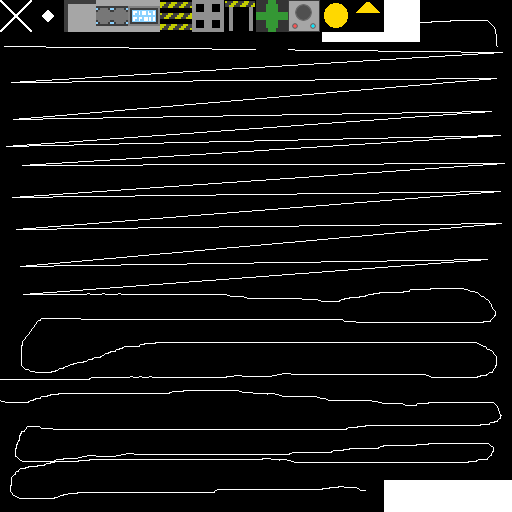
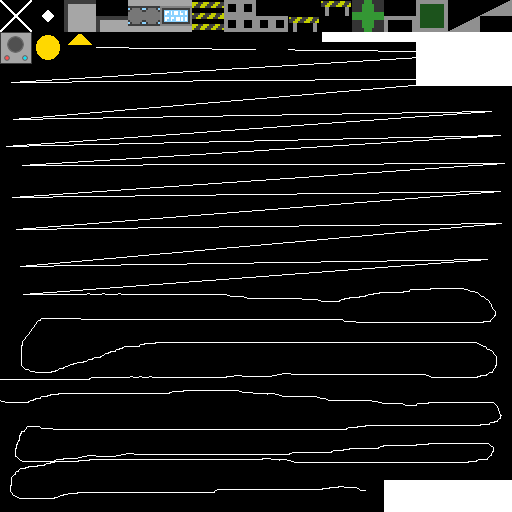
Adding several new tiles, and a "plant" item
Tiles added:
* Ramps!
* Half-height hull
* Half-height catwalk (with optional support structure)
* Top-half handrails (for the half-height tiles)
* Plant boxes
* Tables

Changed region(s): [[0.1875, 0.0, 1.0, 0.1875], [0.0, 0.0625, 0.1875, 0.125], [0.9375, 0.0, 1.0, 0.0312]]

diff --git a/src/BORK_of_DOOM/map_area.c b/src/BORK_of_DOOM/map_area.c
@@ -27,6 +27,8 @@ const char* bork_map_area_str(enum bork_area area) {
 
 static int tile_model_basic(struct bork_map*, struct pg_texture*,
                             struct bork_tile*, int, int, int);
+static int tile_model_ramp(struct bork_map*, struct pg_texture*,
+                            struct bork_tile*, int, int, int);
 static void bork_map_generate_model(struct bork_map* map,
                                     struct pg_texture* env_atlas);
 
@@ -89,6 +91,19 @@ struct bork_tile_detail BORK_TILE_DETAILS[] = {
         .face_inset = { -0.05, -0.05, -0.05, -0.05 },
         .tex_tile = { 7, 7, 7, 7 },
         .add_model = tile_model_basic },
+    [BORK_TILE_HANDRAIL_TOP] = { .name = "HANDRAIL TOP",
+        .tile_flags = BORK_TILE_HAS_ORIENTATION | BORK_TILE_FACE_ORIENTED,
+        .face_flags = { BORK_FACE_HAS_SURFACE | BORK_FACE_HAS_BACKFACE |
+                            BORK_FACE_SEETHRU_SURFACE | BORK_FACE_HALF_TOP,
+                        BORK_FACE_HAS_SURFACE | BORK_FACE_HAS_BACKFACE |
+                            BORK_FACE_SEETHRU_SURFACE | BORK_FACE_HALF_TOP,
+                        BORK_FACE_HAS_SURFACE | BORK_FACE_HAS_BACKFACE |
+                            BORK_FACE_SEETHRU_SURFACE | BORK_FACE_HALF_TOP,
+                        BORK_FACE_HAS_SURFACE | BORK_FACE_HAS_BACKFACE |
+                            BORK_FACE_SEETHRU_SURFACE | BORK_FACE_HALF_TOP },
+        .face_inset = { -0.05, -0.05, -0.05, -0.05 },
+        .tex_tile = { 7, 7, 7, 7 },
+        .add_model = tile_model_basic },
     [BORK_TILE_POWERBLOCK] = { .name = "POWER BLOCK",
         .face_flags = { 1, 1, 1, 1, 1, 1 },
         .tex_tile = {
@@ -96,6 +111,73 @@ struct bork_tile_detail BORK_TILE_DETAILS[] = {
             [PG_FRONT] = 8, [PG_BACK] = 8,
             [PG_TOP] = 9, [PG_DOWN] = 9 },
         .add_model = tile_model_basic },
+    [BORK_TILE_TABLE] = { .name = "TABLE",
+        .face_flags = {
+            BORK_FACE_HAS_SURFACE | BORK_FACE_HAS_BACKFACE | BORK_FACE_NO_SELF_OPPOSITE |
+                BORK_FACE_SEETHRU_SURFACE | BORK_FACE_HALF_BOTTOM,
+            BORK_FACE_HAS_SURFACE | BORK_FACE_HAS_BACKFACE | BORK_FACE_NO_SELF_OPPOSITE |
+                BORK_FACE_SEETHRU_SURFACE | BORK_FACE_HALF_BOTTOM,
+            BORK_FACE_HAS_SURFACE | BORK_FACE_HAS_BACKFACE | BORK_FACE_NO_SELF_OPPOSITE |
+                BORK_FACE_SEETHRU_SURFACE | BORK_FACE_HALF_BOTTOM,
+            BORK_FACE_HAS_SURFACE | BORK_FACE_HAS_BACKFACE | BORK_FACE_NO_SELF_OPPOSITE |
+                BORK_FACE_SEETHRU_SURFACE | BORK_FACE_HALF_BOTTOM,
+            [PG_TOP] = BORK_FACE_HAS_SURFACE | BORK_FACE_SEETHRU_SURFACE | BORK_FACE_HAS_BACKFACE,
+            [PG_BOTTOM] = 0 },
+        .face_inset = { [PG_TOP] = 0.5 },
+        .tex_tile = { 11, 11, 11, 11, 10, 10 },
+        .add_model = tile_model_basic },
+    [BORK_TILE_GARDEN] = { .name = "GARDEN",
+        .face_flags = {
+            BORK_FACE_HAS_SURFACE | BORK_FACE_HAS_BACKFACE | BORK_FACE_NO_SELF_OPPOSITE |
+                BORK_FACE_SEETHRU_SURFACE | BORK_FACE_HALF_BOTTOM,
+            BORK_FACE_HAS_SURFACE | BORK_FACE_HAS_BACKFACE | BORK_FACE_NO_SELF_OPPOSITE |
+                BORK_FACE_SEETHRU_SURFACE | BORK_FACE_HALF_BOTTOM,
+            BORK_FACE_HAS_SURFACE | BORK_FACE_HAS_BACKFACE | BORK_FACE_NO_SELF_OPPOSITE |
+                BORK_FACE_SEETHRU_SURFACE | BORK_FACE_HALF_BOTTOM,
+            BORK_FACE_HAS_SURFACE | BORK_FACE_HAS_BACKFACE | BORK_FACE_NO_SELF_OPPOSITE |
+                BORK_FACE_SEETHRU_SURFACE | BORK_FACE_HALF_BOTTOM,
+            [PG_TOP] = BORK_FACE_HAS_SURFACE,
+            [PG_BOTTOM] = BORK_FACE_HAS_SURFACE },
+        .face_inset = { 0, 0, 0, 0, [PG_TOP] = 0.5 },
+        .tex_tile = { 12, 12, 12, 12, 13, 20 },
+        .add_model = tile_model_basic },
+    [BORK_TILE_CATWALK_HALF] = { .name = "CATWALK HALF",
+        .tile_flags = BORK_TILE_HAS_ORIENTATION | BORK_TILE_FACE_ORIENTED,
+        .face_flags = {
+            BORK_FACE_HAS_SURFACE | BORK_FACE_HAS_BACKFACE | BORK_FACE_NO_SELF_OPPOSITE |
+                BORK_FACE_SEETHRU_SURFACE | BORK_FACE_HALF_BOTTOM,
+            BORK_FACE_HAS_SURFACE | BORK_FACE_HAS_BACKFACE | BORK_FACE_NO_SELF_OPPOSITE |
+                BORK_FACE_SEETHRU_SURFACE | BORK_FACE_HALF_BOTTOM,
+            BORK_FACE_HAS_SURFACE | BORK_FACE_HAS_BACKFACE | BORK_FACE_NO_SELF_OPPOSITE |
+                BORK_FACE_SEETHRU_SURFACE | BORK_FACE_HALF_BOTTOM,
+            BORK_FACE_HAS_SURFACE | BORK_FACE_HAS_BACKFACE | BORK_FACE_NO_SELF_OPPOSITE |
+                BORK_FACE_SEETHRU_SURFACE | BORK_FACE_HALF_BOTTOM,
+            [PG_TOP] = BORK_FACE_HAS_SURFACE | BORK_FACE_SEETHRU_SURFACE | BORK_FACE_HAS_BACKFACE,
+            [PG_BOTTOM] = 0, },
+        .face_inset = { 0, 0, 0, 0, [PG_TOP] = 0.5 },
+        .tex_tile = { 14, 14, 14, 14, [PG_TOP] = 6 },
+        .add_model = tile_model_basic },
+    [BORK_TILE_HULL_HALF] = { .name = "HULL HALF",
+        .face_flags = {
+            BORK_FACE_HAS_SURFACE | BORK_FACE_HAS_BACKFACE | BORK_FACE_NO_SELF_OPPOSITE |
+                BORK_FACE_SEETHRU_SURFACE | BORK_FACE_HALF_BOTTOM,
+            BORK_FACE_HAS_SURFACE | BORK_FACE_HAS_BACKFACE | BORK_FACE_NO_SELF_OPPOSITE |
+                BORK_FACE_SEETHRU_SURFACE | BORK_FACE_HALF_BOTTOM,
+            BORK_FACE_HAS_SURFACE | BORK_FACE_HAS_BACKFACE | BORK_FACE_NO_SELF_OPPOSITE |
+                BORK_FACE_SEETHRU_SURFACE | BORK_FACE_HALF_BOTTOM,
+            BORK_FACE_HAS_SURFACE | BORK_FACE_HAS_BACKFACE | BORK_FACE_NO_SELF_OPPOSITE |
+                BORK_FACE_SEETHRU_SURFACE | BORK_FACE_HALF_BOTTOM,
+            [PG_TOP] = BORK_FACE_HAS_SURFACE | BORK_FACE_SEETHRU_SURFACE,
+            [PG_BOTTOM] = BORK_FACE_HAS_SURFACE, },
+        .face_inset = { 0, 0, 0, 0, [PG_TOP] = 0.5 },
+        .tex_tile = { 15, 15, 15, 15, [PG_TOP] = 3 },
+        .add_model = tile_model_basic },
+    [BORK_TILE_RAMP_BOTTOM] = { .name = "RAMP BOTTOM",
+        .tile_flags = BORK_TILE_HAS_ORIENTATION,
+        .add_model = tile_model_ramp },
+    [BORK_TILE_RAMP_TOP] = { .name = "RAMP TOP",
+        .tile_flags = BORK_TILE_HAS_ORIENTATION,
+        .add_model = tile_model_ramp },
     [BORK_TILE_EDITOR_DOOR] = { .name = "DOOR",
         .tile_flags = BORK_TILE_HAS_ORIENTATION,
     },
@@ -190,7 +272,7 @@ void bork_map_draw(struct bork_map* map, struct bork_game_core* core)
     pg_shader_sprite_mode(shader, PG_SPRITE_CYLINDRICAL);
     pg_shader_sprite_transform(shader, (vec2){ 1, 1 }, (vec2){ 0, 0 });
     pg_shader_sprite_texture(shader, &core->env_atlas);
-    pg_shader_sprite_tex_frame(shader, 16);
+    pg_shader_sprite_tex_frame(shader, 160);
     pg_model_begin(&core->enemy_model, shader);
     int current_type = 0;
     struct bork_map_light_fixture* lfix;
@@ -341,10 +423,9 @@ static int tile_face_basic(struct bork_map* map, struct pg_texture* env_atlas,
     if(opp_flags & BORK_FACE_HAS_SURFACE && !(opp_flags & BORK_FACE_SEETHRU_SURFACE)
     && !(face_flags & BORK_FACE_FORCE_SURFACE) && !(face_flags & BORK_FACE_FLUSH_SURFACE)) {
         return 0;
-    } else if(face_flags & BORK_FACE_NO_SELF_OPPOSITE
-            && opp_flags & BORK_FACE_NO_SELF_OPPOSITE) {
+    } else if(face_flags & BORK_FACE_NO_SELF_OPPOSITE && opp_tile->type == tile->type) {
         return 0;
-    } else if((tile_flags & BORK_TILE_FACE_ORIENTED) && !(tile->orientation & (1 << dir))) {
+    } else if((tile_flags & BORK_TILE_FACE_ORIENTED) && dir < 4 && !(tile->orientation & (1 << dir))) {
         return 0;
     }
     struct pg_model* model = &map->model;
@@ -367,6 +448,9 @@ static int tile_face_basic(struct bork_map* map, struct pg_texture* env_atlas,
             if(face_flags & BORK_FACE_HALF_BOTTOM && new_vert.pos[2] == 0.5) {
                 new_vert.pos[2] = 0.0f;
                 new_vert.uv[1] += (16.0f / 512.0f);
+            } else if(face_flags & BORK_FACE_HALF_TOP && new_vert.pos[2] == -0.5) {
+                new_vert.pos[2] = 0.0f;
+                new_vert.uv[1] -= (16.0f / 512.0f);
             }
             vec3_add(new_vert.pos, new_vert.pos, (vec3){ 0.5, 0.5, 0.5 });
             vec3_add(new_vert.pos, new_vert.pos, (vec3){ x, y, z });
@@ -385,6 +469,9 @@ static int tile_face_basic(struct bork_map* map, struct pg_texture* env_atlas,
             if(face_flags & BORK_FACE_HALF_BOTTOM && new_vert.pos[2] == 0.5) {
                 new_vert.pos[2] = 0.0f;
                 new_vert.uv[1] += (16.0f / 512.0f);
+            } else if(face_flags & BORK_FACE_HALF_TOP && new_vert.pos[2] == -0.5) {
+                new_vert.pos[2] = 0.0f;
+                new_vert.uv[1] -= (16.0f / 512.0f);
             }
             vec3_add(new_vert.pos, new_vert.pos, (vec3){ 0.5, 0.5, 0.5 });
             vec3_add(new_vert.pos, new_vert.pos, (vec3){ x, y, z });
@@ -408,6 +495,54 @@ static int tile_model_basic(struct bork_map* map, struct pg_texture* env_atlas,
         tri_count += tile_face_basic(map, env_atlas, tile, x, y, z, s);
     }
     return tri_count;
+}
+
+static int tile_model_ramp(struct bork_map* map, struct pg_texture* env_atlas,
+                           struct bork_tile* tile, int x, int y, int z)
+{
+    struct pg_model* model = &map->model;
+    struct pg_vertex_full new_vert = { .components =
+        PG_MODEL_COMPONENT_POSITION | PG_MODEL_COMPONENT_UV };
+    vec2 tex_frame[2];
+    pg_texture_get_frame(env_atlas, 6, tex_frame[0], tex_frame[1]);
+    unsigned vert_idx = model->v_count;
+    int i;
+    for(i = 0; i < 8; ++i) {
+        int vi = i % 4;
+        vec3_dup(new_vert.pos, vert_pos[5][vi]);
+        vec2_set(new_vert.uv, tex_frame[(vi < 2)][0], tex_frame[(vi % 2)][1]);
+        if(tile->type == BORK_TILE_RAMP_TOP) new_vert.pos[2] += 0.5;
+        vec3_add(new_vert.pos, new_vert.pos, (vec3){ 0.5, 0.5, 0.5 });
+        vec3_add(new_vert.pos, new_vert.pos, (vec3){ x, y, z });
+        vec3_scale(new_vert.pos, new_vert.pos, 2);
+        pg_model_add_vertex(model, &new_vert);
+    }
+    if(tile->orientation & (1 << PG_FRONT)) {
+        model->pos.data[vert_idx + 2].v[2] += 1.0f;
+        model->pos.data[vert_idx + 3].v[2] += 1.0f;
+        model->pos.data[vert_idx + 6].v[2] += 1.0f;
+        model->pos.data[vert_idx + 7].v[2] += 1.0f;
+    } else if(tile->orientation & (1 << PG_BACK)) {
+        model->pos.data[vert_idx + 0].v[2] += 1.0f;
+        model->pos.data[vert_idx + 1].v[2] += 1.0f;
+        model->pos.data[vert_idx + 4].v[2] += 1.0f;
+        model->pos.data[vert_idx + 5].v[2] += 1.0f;
+    } else if(tile->orientation & (1 << PG_LEFT)) {
+        model->pos.data[vert_idx + 1].v[2] += 1.0f;
+        model->pos.data[vert_idx + 3].v[2] += 1.0f;
+        model->pos.data[vert_idx + 5].v[2] += 1.0f;
+        model->pos.data[vert_idx + 7].v[2] += 1.0f;
+    } else if(tile->orientation & (1 << PG_RIGHT)) {
+        model->pos.data[vert_idx + 0].v[2] += 1.0f;
+        model->pos.data[vert_idx + 2].v[2] += 1.0f;
+        model->pos.data[vert_idx + 4].v[2] += 1.0f;
+        model->pos.data[vert_idx + 6].v[2] += 1.0f;
+    }
+    pg_model_add_triangle(model, vert_idx + 0, vert_idx + 1, vert_idx + 2);
+    pg_model_add_triangle(model, vert_idx + 2, vert_idx + 1, vert_idx + 3);
+    pg_model_add_triangle(model, vert_idx + 5, vert_idx + 4, vert_idx + 6);
+    pg_model_add_triangle(model, vert_idx + 5, vert_idx + 6, vert_idx + 7);
+    return 4;
 }
 
 int bork_map_load_editor_map(struct bork_map* map, char* filename)

diff --git a/src/BORK_of_DOOM/entity.h b/src/BORK_of_DOOM/entity.h
@@ -28,6 +28,7 @@ struct bork_entity {
         BORK_ITEM_BULLETS,
         BORK_ITEM_SCRAPMETAL,
         BORK_ITEM_MACHINEGUN,
+        BORK_ITEM_PLANT1,
         BORK_ENTITY_TYPES,
     } type;
 };
@@ -77,6 +78,11 @@ static const struct bork_entity_profile {
         .size = { 0.5, 0.5, 0.5 },
         .sprite_tx = { 1, 1, 0, 0 },
         .front_frame = 1 },
+    [BORK_ITEM_PLANT1] = { .name = "PLANT",
+        .base_flags = BORK_ENTFLAG_ITEM | BORK_ENTFLAG_STACKS,
+        .size = { 0.5, 0.5, 0.5 },
+        .sprite_tx = { 1, 1, 0, 0 },
+        .front_frame = 3 },
     [BORK_ITEM_SCRAPMETAL] = { .name = "SCRAP METAL",
         .base_flags = BORK_ENTFLAG_ITEM,
         .size = { 0.5, 0.5, 0.5 },
@@ -90,3 +96,4 @@ struct bork_entity* bork_entity_get(bork_entity_t ent);
 void bork_entity_init(struct bork_entity* ent, enum bork_entity_type type);
 void bork_entity_push(struct bork_entity* ent, vec3 push);
 void bork_entity_update(struct bork_entity* ent, struct bork_map* map);
+int bork_entity_ground(struct bork_entity* ent);

diff --git a/src/BORK_of_DOOM/map_area.h b/src/BORK_of_DOOM/map_area.h
@@ -15,12 +15,18 @@ enum bork_tile_type {
     BORK_TILE_VAC,
     BORK_TILE_ATMO,
     BORK_TILE_HULL,
+    BORK_TILE_HULL_HALF,
     BORK_TILE_HULL_EDGE,
     BORK_TILE_CONTROL_PANEL,
     BORK_TILE_LADDER,
     BORK_TILE_CATWALK,
+    BORK_TILE_CATWALK_HALF,
     BORK_TILE_HANDRAIL,
+    BORK_TILE_HANDRAIL_TOP,
     BORK_TILE_POWERBLOCK,
+    BORK_TILE_TABLE,
+    BORK_TILE_GARDEN,
+    BORK_TILE_RAMP_BOTTOM, BORK_TILE_RAMP_TOP,
     BORK_TILE_EDITOR_DOOR,
     BORK_TILE_EDITOR_LIGHT1,
     BORK_TILE_EDITOR_LIGHT_WALLMOUNT,
@@ -36,6 +42,7 @@ enum bork_tile_type {
 #define BORK_FACE_NO_FRONTFACE      (1 << 6)
 #define BORK_FACE_HAS_ORIENTATION   (1 << 8)
 #define BORK_FACE_HALF_BOTTOM       (1 << 9)
+#define BORK_FACE_HALF_TOP          (1 << 10)
 
 #define BORK_TILE_SPECIAL_MODEL     (1 << 0)
 #define BORK_TILE_HAS_ORIENTATION   (1 << 1)

diff --git a/src/BORK_of_DOOM/state_edit.c b/src/BORK_of_DOOM/state_edit.c
@@ -103,6 +103,9 @@ static void bork_editor_update_map(struct bork_editor_data* d)
             } else d->current_tile.dir = 1 << PG_BACK;
         } else d->cursor[1] = MOD(d->cursor[1] - 1, 32);
     }
+    if(bork_input_event(d->core, SDL_SCANCODE_N, BORK_CONTROL_HIT)) {
+        if(ctrl[SDL_SCANCODE_LCTRL]) d->current_tile.dir = 0;
+    }
     if(bork_input_event(d->core, SDL_SCANCODE_V, BORK_CONTROL_HIT)) {
         if(d->select_mode < 1) {
             d->select_mode = 1;
